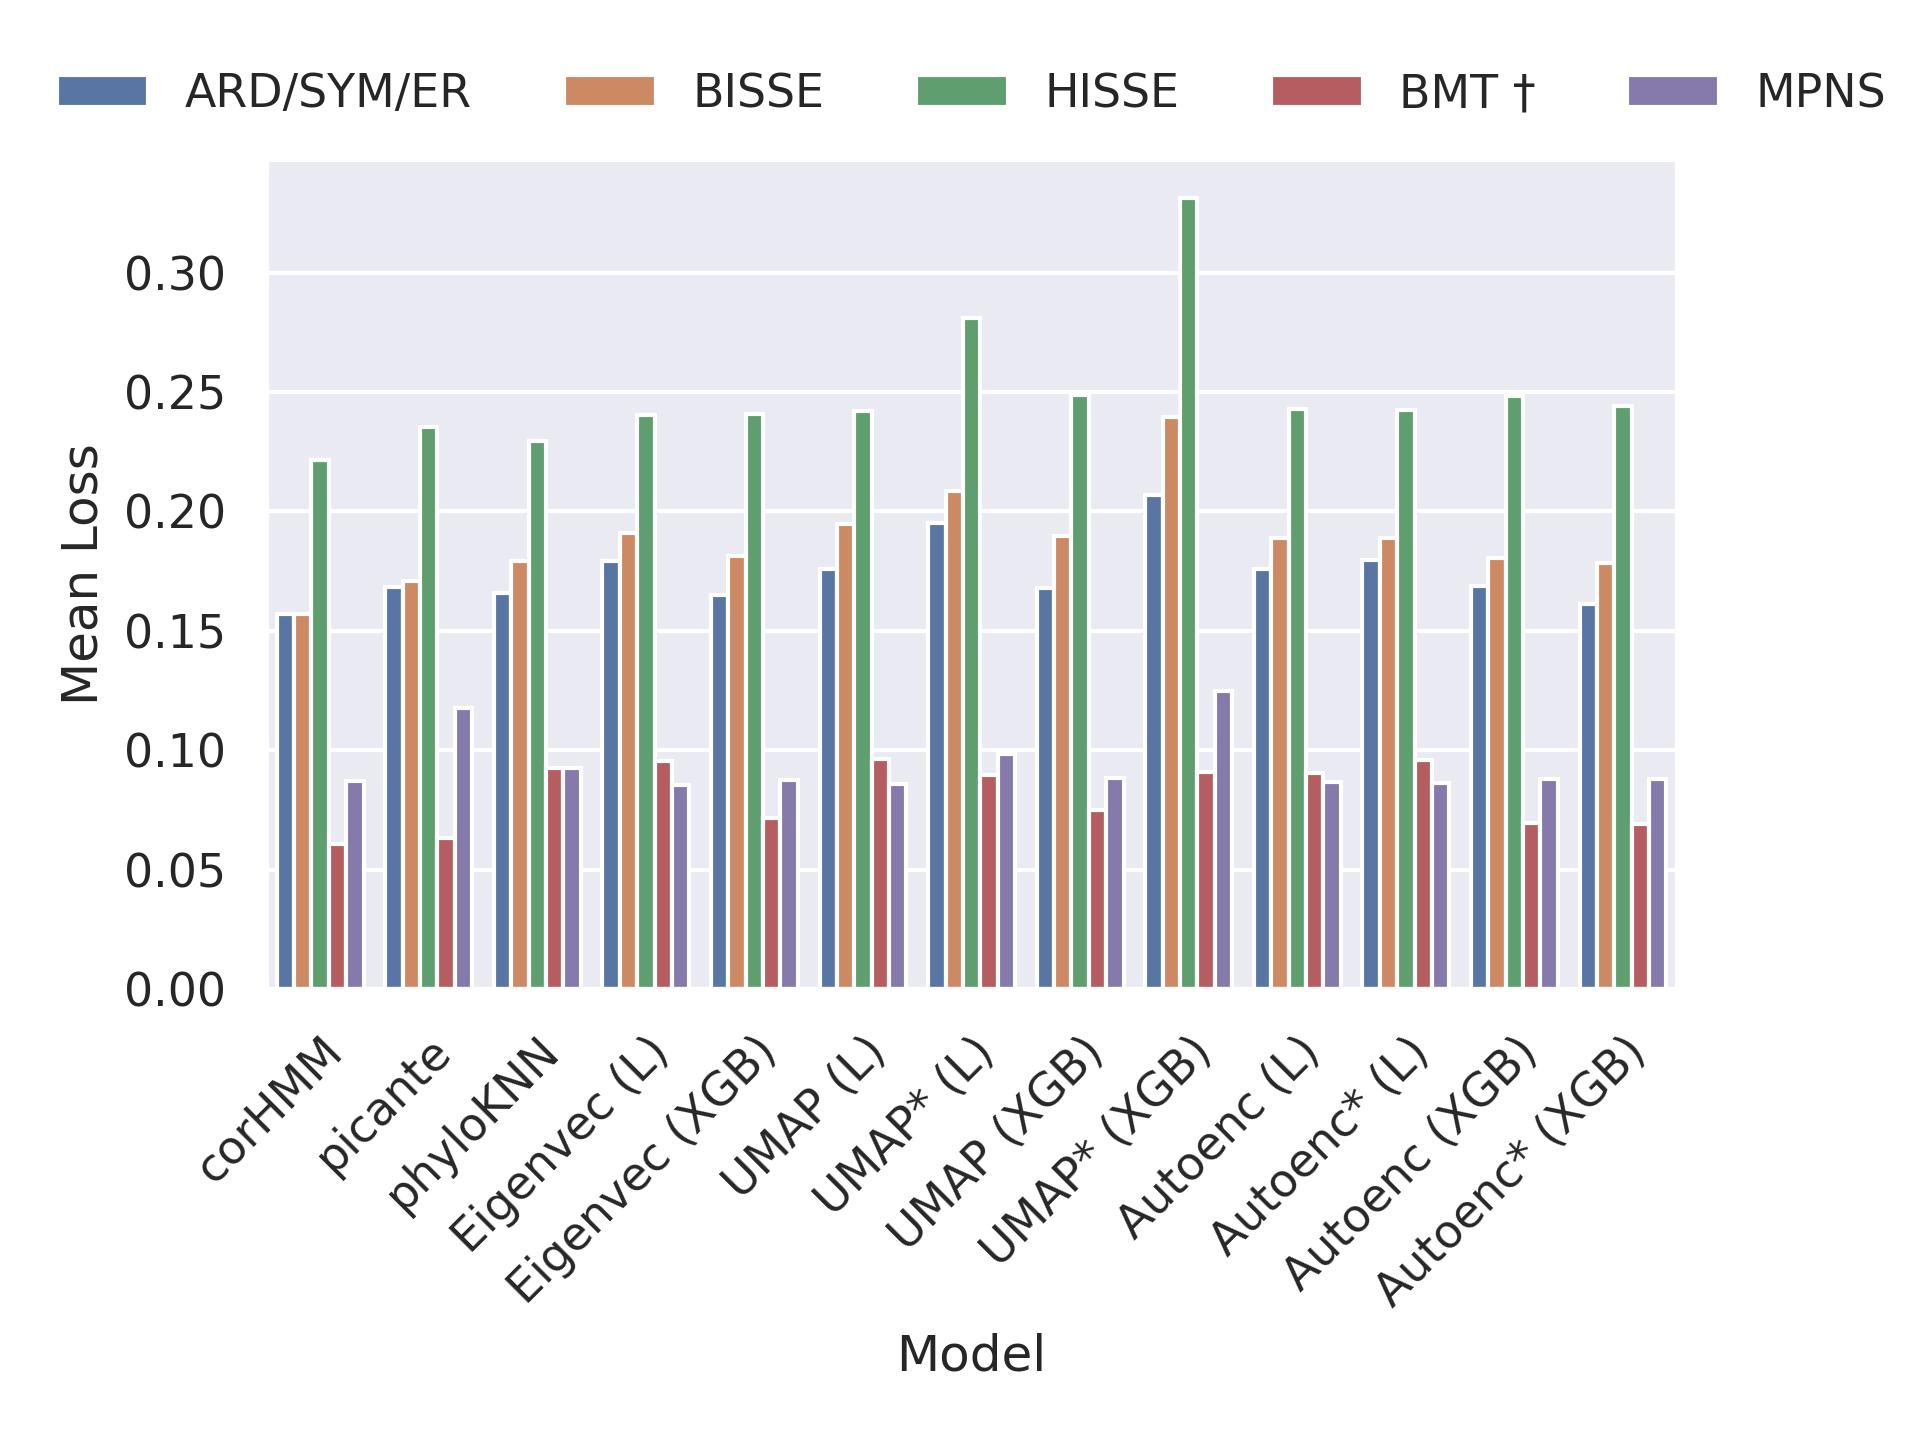
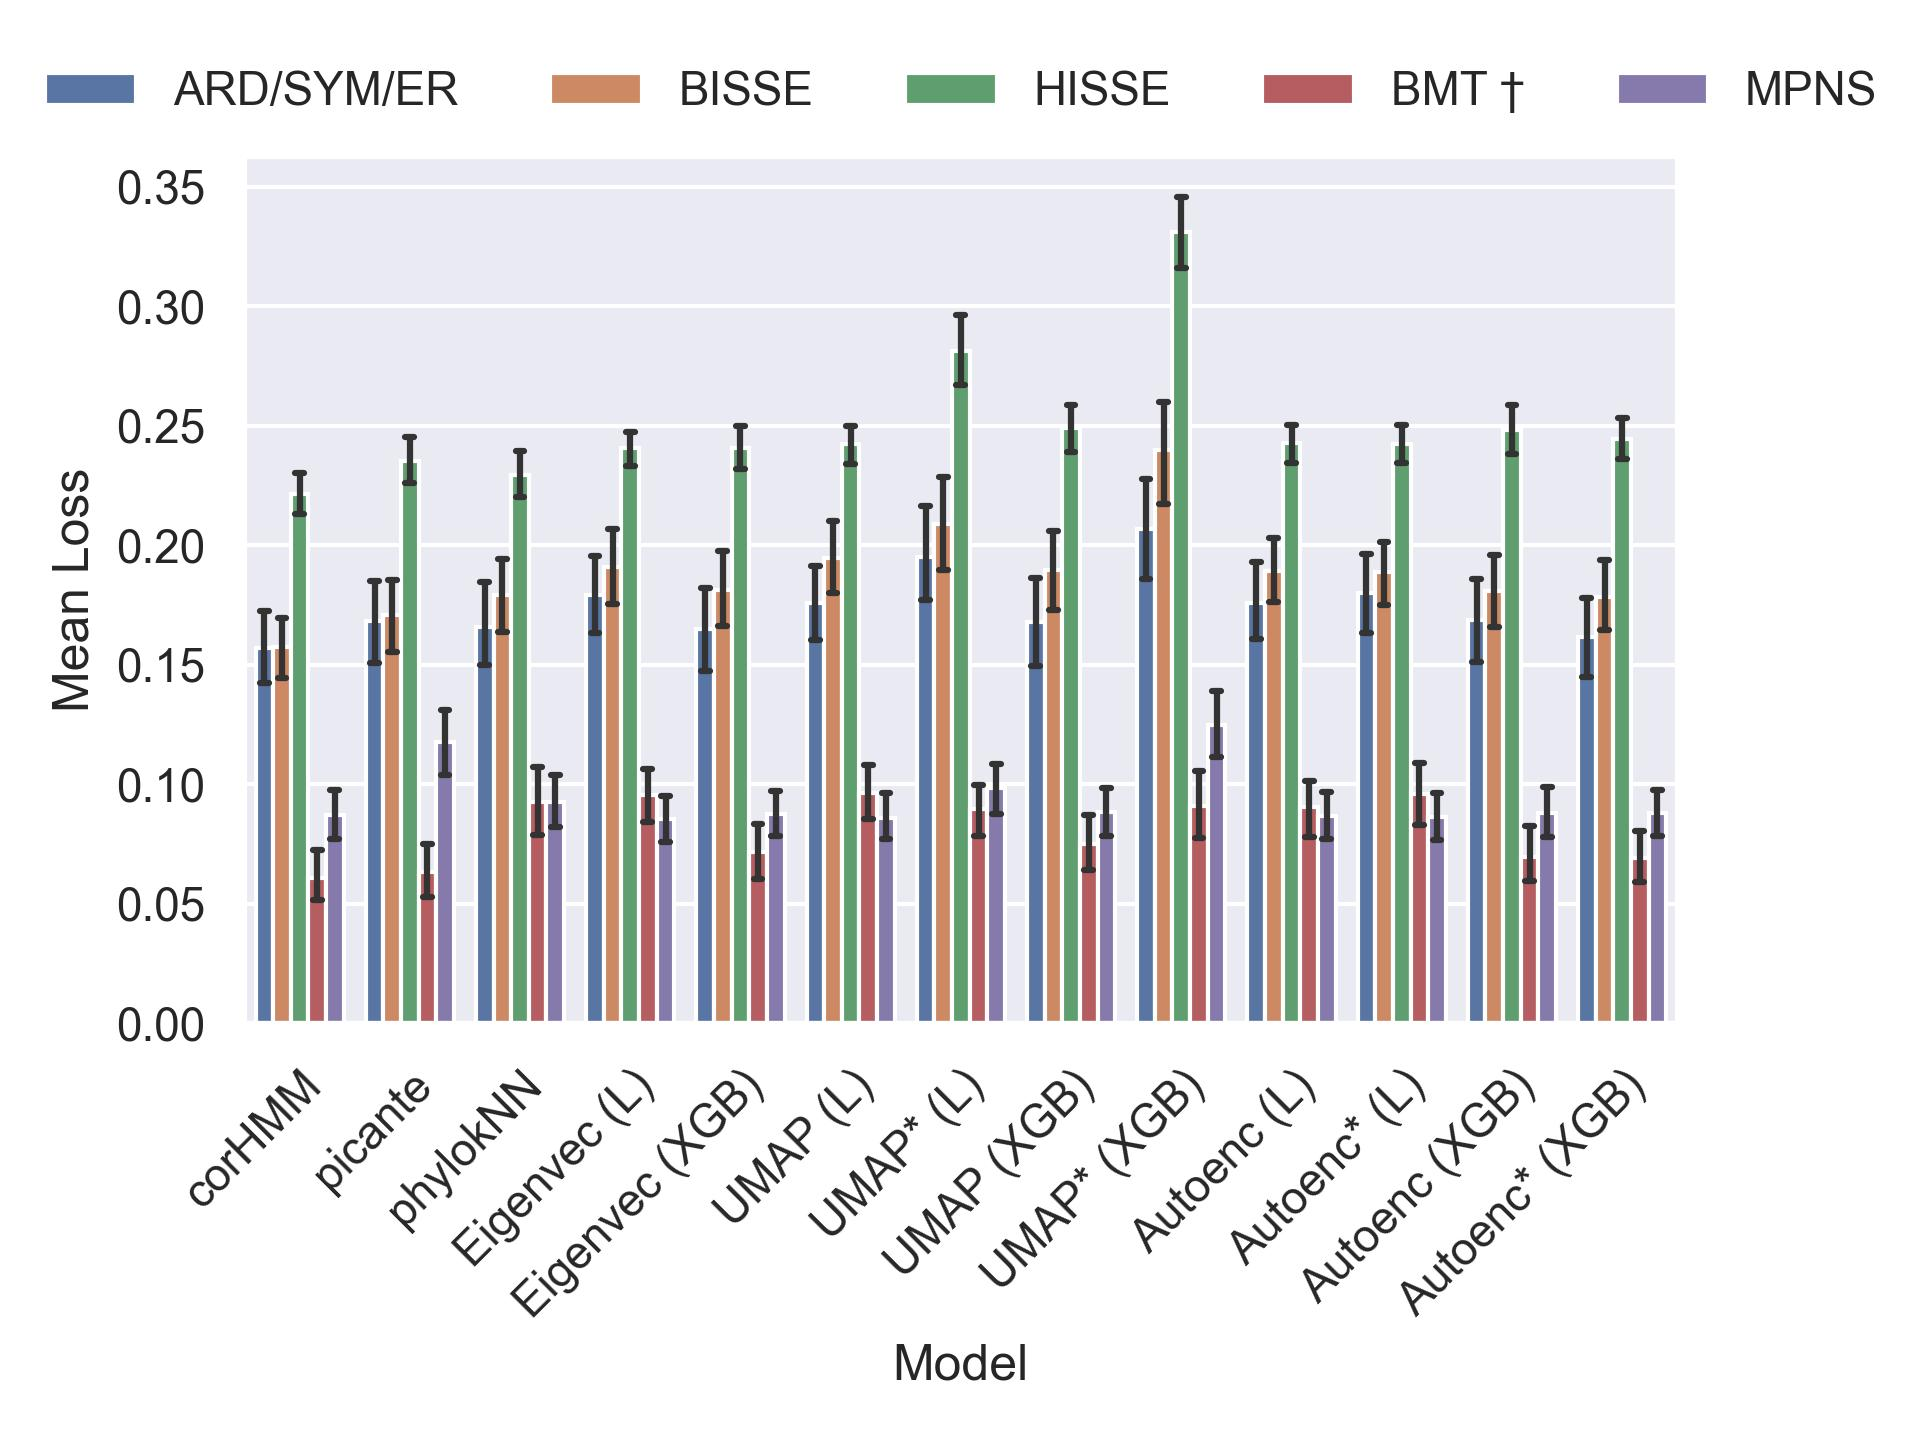
Add error bars in plots

diff --git a/analysis/evaluation/compare_different_ev_models.py b/analysis/evaluation/compare_different_ev_models.py
@@ -6,29 +6,36 @@ import pandas as pd
 import seaborn as sns
 from matplotlib import pyplot as plt
 
-from analysis.imputation.helper_functions import missingness_types, nonstandard_sim_types, number_of_simulation_iterations
+from analysis.imputation.helper_functions import missingness_types, nonstandard_sim_types, \
+    number_of_simulation_iterations
 
 bin_model_names = ['corHMM', 'picante', 'phylnn_raw', 'phylnn_fill_means',
-                   'logit_eigenvecs', 'logit_umap', 'logit_umap_supervised', 'logit_autoencoded', 'logit_autoenc_supervised',
+                   'logit_eigenvecs', 'logit_umap', 'logit_umap_supervised', 'logit_autoencoded',
+                   'logit_autoenc_supervised',
                    'xgb_eigenvecs', 'xgb_umap', 'xgb_umap_supervised', 'xgb_autoencoded', 'xgb_autoenc_supervised']
 bin_model_names.remove('phylnn_raw')
 cont_model_names = ['phylopars', 'picante', 'phylnn_raw', 'phylnn_fill_means',
                     'linear_eigenvecs', 'linear_umap', 'linear_autoencoded',
                     'xgb_eigenvecs', 'xgb_umap', 'xgb_autoencoded']
 cont_model_names.remove('phylnn_raw')
-rename_models_and_ev_models = {'phylnn_fill_means': 'phylokNN', 'logit_eigenvecs': 'Eigenvec (L)', 'logit_umap': 'UMAP (L)',
-                               'logit_umap_supervised': 'UMAP* (L)', 'logit_autoencoded': 'Autoenc (L)', 'logit_autoenc_supervised': 'Autoenc* (L)',
+rename_models_and_ev_models = {'phylnn_fill_means': 'phylokNN', 'logit_eigenvecs': 'Eigenvec (L)',
+                               'logit_umap': 'UMAP (L)',
+                               'logit_umap_supervised': 'UMAP* (L)', 'logit_autoencoded': 'Autoenc (L)',
+                               'logit_autoenc_supervised': 'Autoenc* (L)',
                                'xgb_eigenvecs': 'Eigenvec (XGB)', 'xgb_umap': 'UMAP (XGB)',
-                               'xgb_umap_supervised': 'UMAP* (XGB)', 'xgb_autoencoded': 'Autoenc (XGB)', 'xgb_autoenc_supervised': 'Autoenc* (XGB)',
+                               'xgb_umap_supervised': 'UMAP* (XGB)', 'xgb_autoencoded': 'Autoenc (XGB)',
+                               'xgb_autoenc_supervised': 'Autoenc* (XGB)',
                                'linear_eigenvecs': 'Eigenvec (L)', 'linear_umap': 'UMAP (L)',
                                'linear_umap_supervised': 'UMAP* (L)', 'linear_autoencoded': 'Autoenc (L)',
                                'linear_autoenc_supervised': 'Autoenc* (L)',
                                }
 
-binary_model_order = ['corHMM', 'picante', 'phylokNN', 'Eigenvec (L)', 'Eigenvec (XGB)', 'UMAP (L)', 'UMAP* (L)', 'UMAP (XGB)', 'UMAP* (XGB)',
+binary_model_order = ['corHMM', 'picante', 'phylokNN', 'Eigenvec (L)', 'Eigenvec (XGB)', 'UMAP (L)', 'UMAP* (L)',
+                      'UMAP (XGB)', 'UMAP* (XGB)',
                       'Autoenc (L)', 'Autoenc* (L)', 'Autoenc (XGB)', 'Autoenc* (XGB)']
 
-continuous_model_order = ['phylopars', 'picante', 'phylokNN', 'Eigenvec (L)', 'Eigenvec (XGB)', 'UMAP (L)', 'UMAP (XGB)',
+continuous_model_order = ['phylopars', 'picante', 'phylokNN', 'Eigenvec (L)', 'Eigenvec (XGB)', 'UMAP (L)',
+                          'UMAP (XGB)',
                           'Autoenc (L)', 'Autoenc (XGB)']
 
 
@@ -40,11 +47,13 @@ def check_scales():
 
     for tag in range(1, number_of_simulation_iterations + 1):
         tag = str(tag)
-        eb_val = pd.read_csv(os.path.join('..', 'data', 'non_standard_simulations', 'EB', 'continuous', tag, 'ground_truth.csv'))[
+        eb_val = pd.read_csv(
+            os.path.join('..', 'data', 'non_standard_simulations', 'EB', 'continuous', tag, 'ground_truth.csv'))[
             'trait_EB_scaled'].tolist()
         EB_values += eb_val
 
-        bmt_val = pd.read_csv(os.path.join('..', 'data', 'non_standard_simulations', 'BMT', 'continuous', tag, 'ground_truth.csv'))[
+        bmt_val = pd.read_csv(
+            os.path.join('..', 'data', 'non_standard_simulations', 'BMT', 'continuous', tag, 'ground_truth.csv'))[
             'trait_BM_trend_scaled'].tolist()
         BMT_values += bmt_val
 
@@ -71,19 +80,21 @@ def output_df(df, bin_or_cont, out_dir, group: str = 'EV Model'):
 
 def plot_binary_and_continuous_cases(bin_df, cont_df, out_dir):
     sns.set_theme()
-
+    # Error bars default is 95% confidence interval
+    err_kws = {"color": ".2", "linewidth": 1.5}
     ## do a useful plot
-    plot_df = bin_df.groupby('EV Model').mean(numeric_only=True)
-    plot_df = plot_df.reset_index()
-    p_df = pd.melt(plot_df, id_vars='EV Model', value_vars=bin_model_names, var_name='Model', value_name='Mean Loss')
-    p_df['EV Model'] = p_df['EV Model'].map({'simulations': 'ARD/SYM/ER', 'Extinct_BMT': 'BMT †', 'real_data': 'MPNS'}).fillna(p_df['EV Model'])
+    ## Turn  Model columns into useful row values
+    p_df = pd.melt(bin_df, id_vars='EV Model', value_vars=bin_model_names, var_name='Model', value_name='Mean Loss')
+    p_df['EV Model'] = p_df['EV Model'].map(
+        {'simulations': 'ARD/SYM/ER', 'Extinct_BMT': 'BMT †', 'real_data': 'MPNS'}).fillna(p_df['EV Model'])
     p_df['Model'] = p_df['Model'].map(rename_models_and_ev_models).fillna(p_df['Model'])
-
     ev_order = ['ARD/SYM/ER', 'BISSE', 'HISSE', 'BMT †', 'MPNS']
     p_df = p_df.sort_values(by="EV Model", key=lambda column: column.map(lambda e: ev_order.index(e)))
     output_df(p_df, 'binary', out_dir)
 
-    g = sns.barplot(p_df, x='Model', y='Mean Loss', hue='EV Model', order=binary_model_order)
+    g = sns.barplot(p_df, x='Model', y='Mean Loss', hue='EV Model', order=binary_model_order,
+                    capsize=.4,
+                    err_kws=err_kws)
     g.set_xticklabels(g.get_xticklabels(), rotation=45, ha='right', rotation_mode='anchor')
     sns.move_legend(
         g, "lower center",
@@ -94,7 +105,10 @@ def plot_binary_and_continuous_cases(bin_df, cont_df, out_dir):
     plt.close()
 
     # For readability don't plot semisupervised versions here
-    g = sns.barplot(p_df[~p_df['Model'].str.contains('*', regex=False)], x='EV Model', y='Mean Loss', hue='Model')
+    p_df = p_df.sort_values(by="Model", key=lambda column: column.map(lambda e: binary_model_order.index(e)))
+    g = sns.barplot(p_df[~p_df['Model'].str.contains('*', regex=False)], x='EV Model', y='Mean Loss', hue='Model',
+                    order=ev_order, capsize=.4,
+                    err_kws=err_kws, )
     g.set_xticklabels(g.get_xticklabels(), rotation=45, ha='right', rotation_mode='anchor')
     sns.move_legend(
         g, "lower center",
@@ -105,14 +119,16 @@ def plot_binary_and_continuous_cases(bin_df, cont_df, out_dir):
     plt.close()
 
     ## do a useful plot
-    plot_df = cont_df.groupby('EV Model').mean(numeric_only=True)
-    plot_df = plot_df.reset_index()
-    p_df = pd.melt(plot_df, id_vars='EV Model', value_vars=cont_model_names, var_name='Model', value_name='Mean Loss')
-    p_df['EV Model'] = p_df['EV Model'].map({'simulations': 'BM/OU', 'Extinct_BMT': 'BMT †', 'real_data': 'BIEN'}).fillna(p_df['EV Model'])
+    p_df = pd.melt(cont_df, id_vars='EV Model', value_vars=cont_model_names, var_name='Model', value_name='Mean Loss')
+    p_df['EV Model'] = p_df['EV Model'].map(
+        {'simulations': 'BM/OU', 'Extinct_BMT': 'BMT †', 'real_data': 'BIEN'}).fillna(p_df['EV Model'])
     p_df['Model'] = p_df['Model'].map(rename_models_and_ev_models).fillna(p_df['Model'])
     ev_order = ['BM/OU', 'BMT', 'EB', 'BMT †', 'BIEN']
     p_df = p_df.sort_values(by="EV Model", key=lambda column: column.map(lambda e: ev_order.index(e)))
-    g = sns.barplot(p_df, x='Model', y='Mean Loss', hue='EV Model', order=continuous_model_order)
+    g = sns.barplot(p_df, x='Model', y='Mean Loss', hue='EV Model', order=continuous_model_order,
+                    capsize=.4,
+                    err_kws=err_kws,
+                    )
     g.set_xticklabels(g.get_xticklabels(), rotation=45, ha='right', rotation_mode='anchor')
     sns.move_legend(
         g, "lower center",
@@ -124,7 +140,11 @@ def plot_binary_and_continuous_cases(bin_df, cont_df, out_dir):
     plt.close()
     output_df(p_df, 'continuous', out_dir)
 
-    g = sns.barplot(p_df, x='EV Model', y='Mean Loss', hue='Model')
+    p_df = p_df.sort_values(by="Model", key=lambda column: column.map(lambda e: continuous_model_order.index(e)))
+    g = sns.barplot(p_df, x='EV Model', y='Mean Loss', hue='Model', order=ev_order,
+                    capsize=.4,
+                    err_kws=err_kws,
+                    )
     g.set_xticklabels(g.get_xticklabels(), rotation=45, ha='right', rotation_mode='anchor')
     sns.move_legend(
         g, "lower center",
@@ -136,8 +156,10 @@ def plot_binary_and_continuous_cases(bin_df, cont_df, out_dir):
 
 
 def main():
-    bin_df = pd.read_csv(os.path.join('outputs', 'binary', 'results.csv'))[bin_model_names + ['EV Model', 'Missing Type']]
-    cont_df = pd.read_csv(os.path.join('outputs', 'continuous', 'results.csv'))[cont_model_names + ['EV Model', 'Missing Type']]
+    bin_df = pd.read_csv(os.path.join('outputs', 'binary', 'results.csv'))[
+        bin_model_names + ['EV Model', 'Missing Type']]
+    cont_df = pd.read_csv(os.path.join('outputs', 'continuous', 'results.csv'))[
+        cont_model_names + ['EV Model', 'Missing Type']]
 
     plot_binary_and_continuous_cases(bin_df, cont_df, 'outputs')
 

diff --git a/phyloAutoEncoder/phylo_autoencoder.py b/phyloAutoEncoder/phylo_autoencoder.py
@@ -35,7 +35,6 @@ def autoencode_pairwise_distances(distance_data: pd.DataFrame, reduction_fractio
         :return: The created autoencoder model.
         """
         ##
-        # Add a Dense layer with a L1 activity regularizer to constrain the representations to be compact
         autoencoder = keras.Sequential([
             keras.Input(shape=(_input_dim,)),
             keras.layers.Dense(encoded_dim * 2, activation='leaky_relu'),
